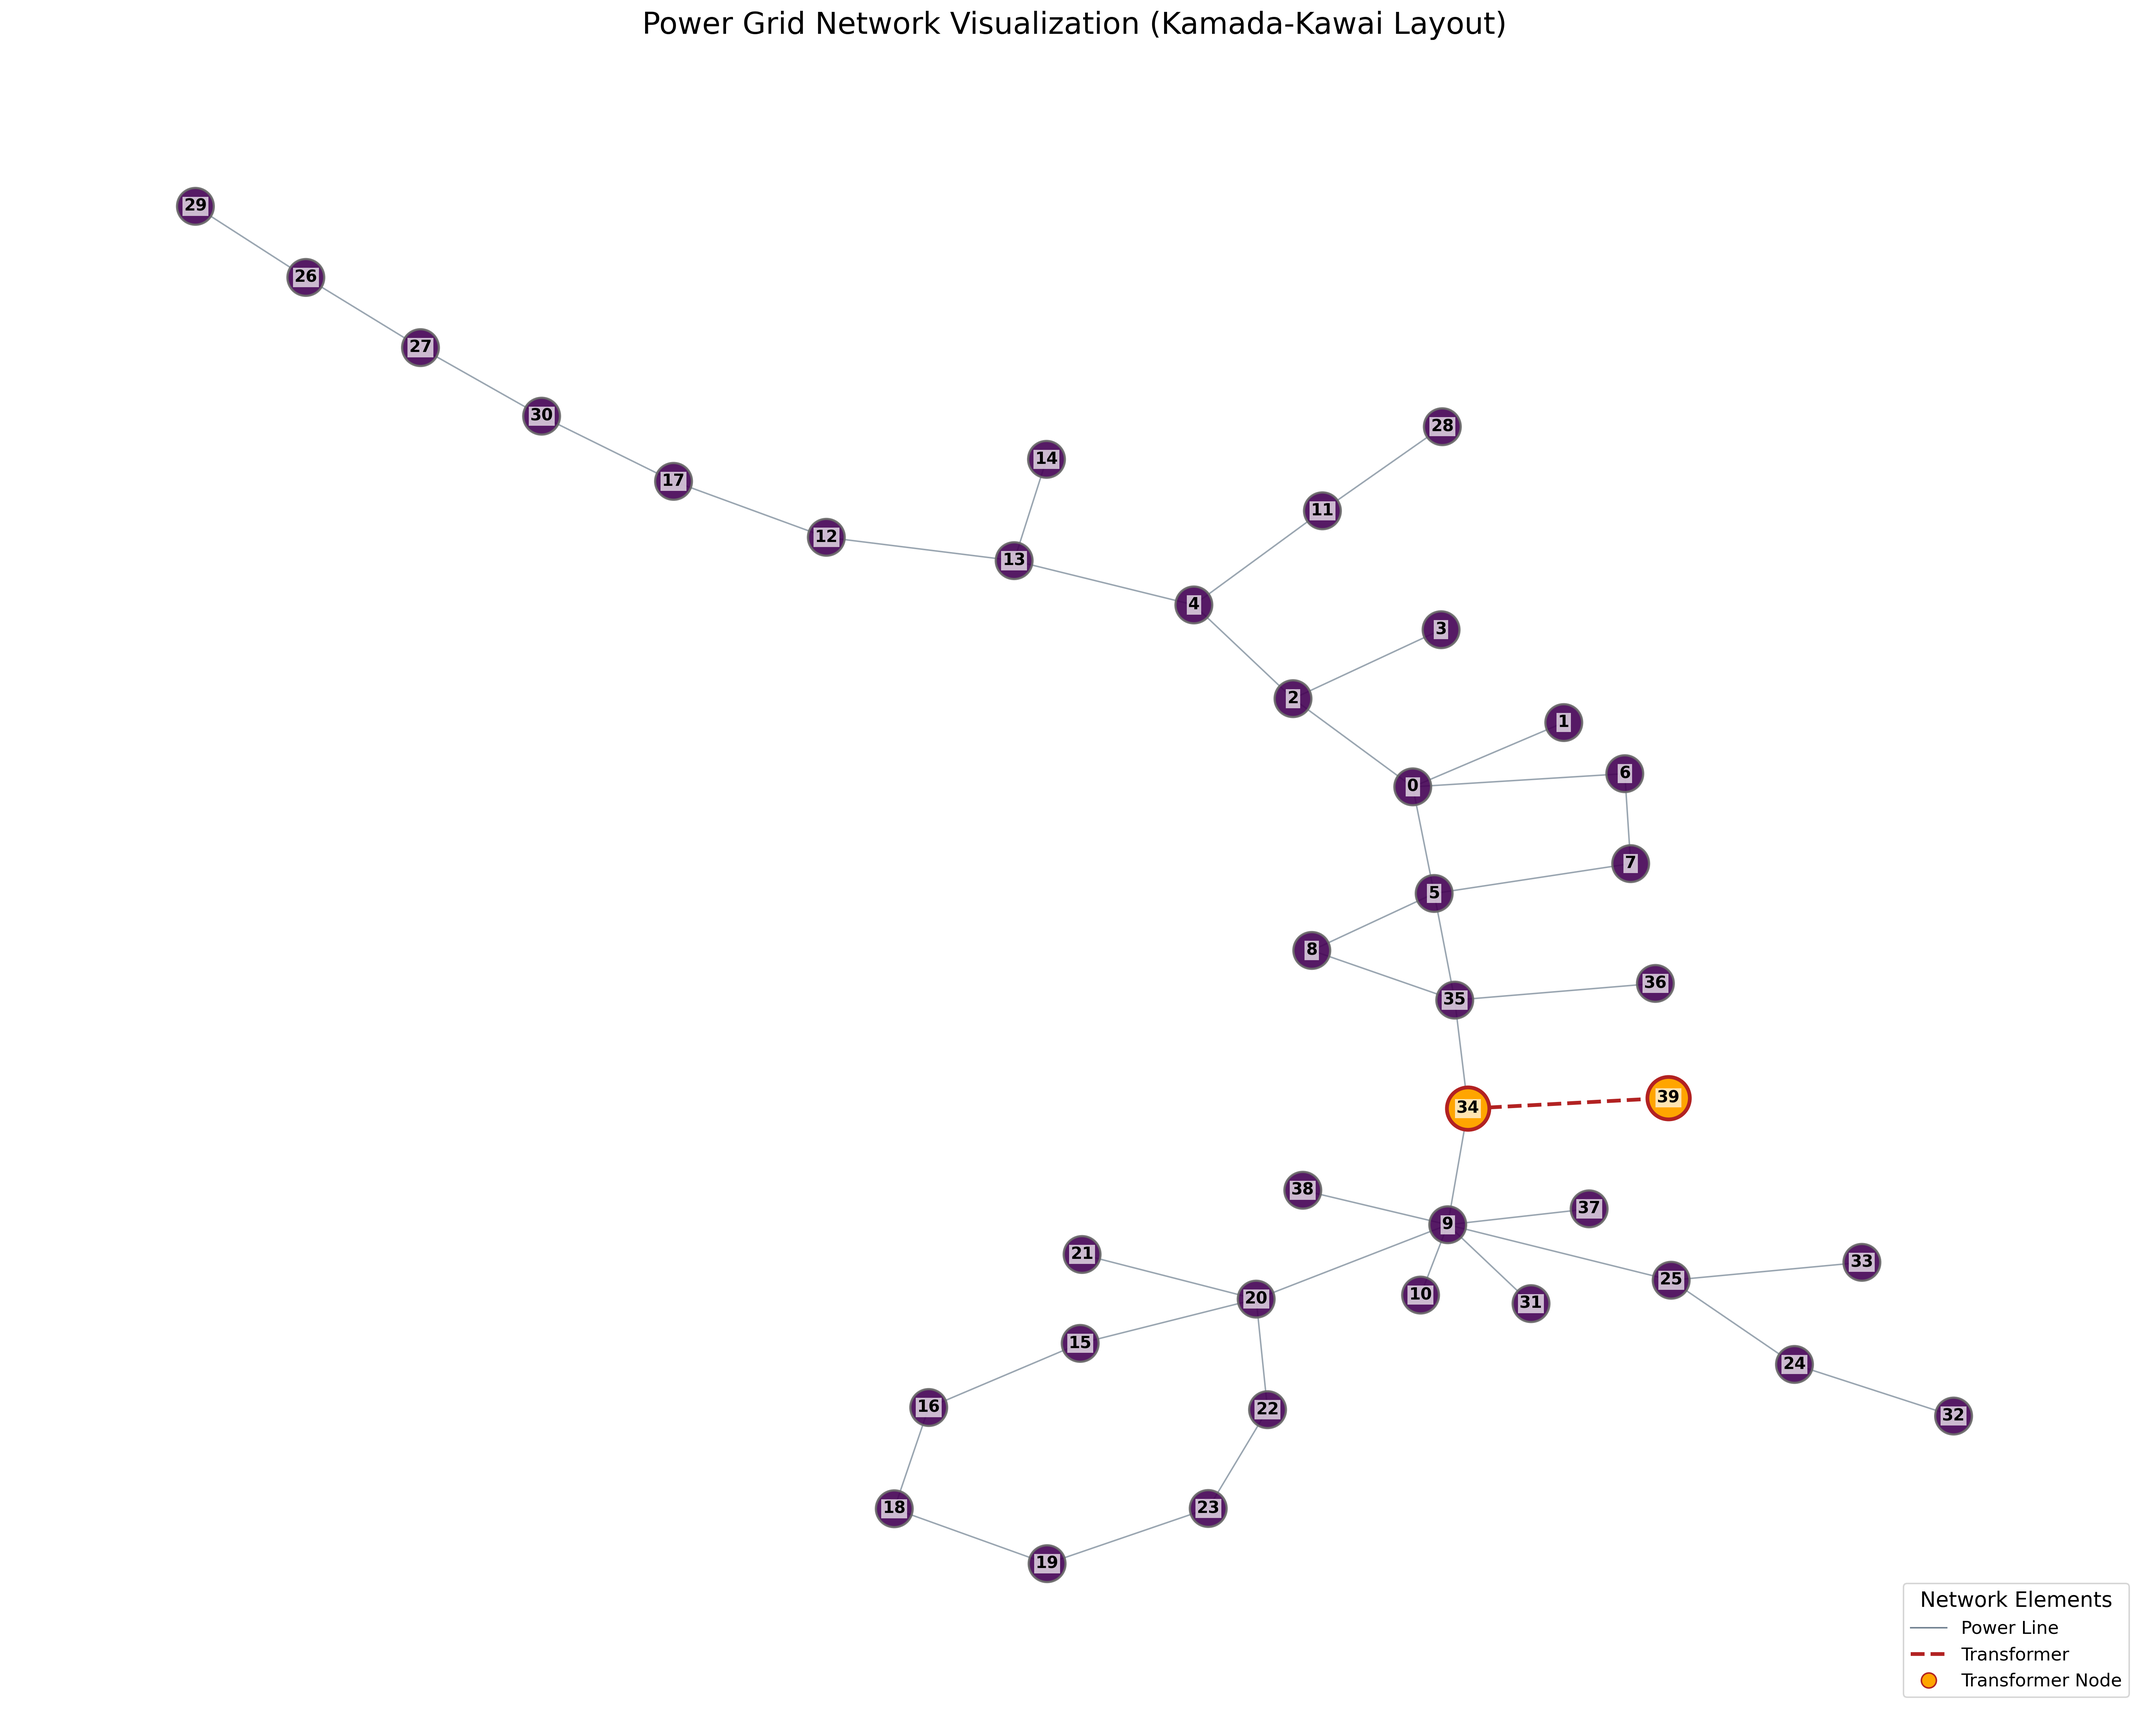
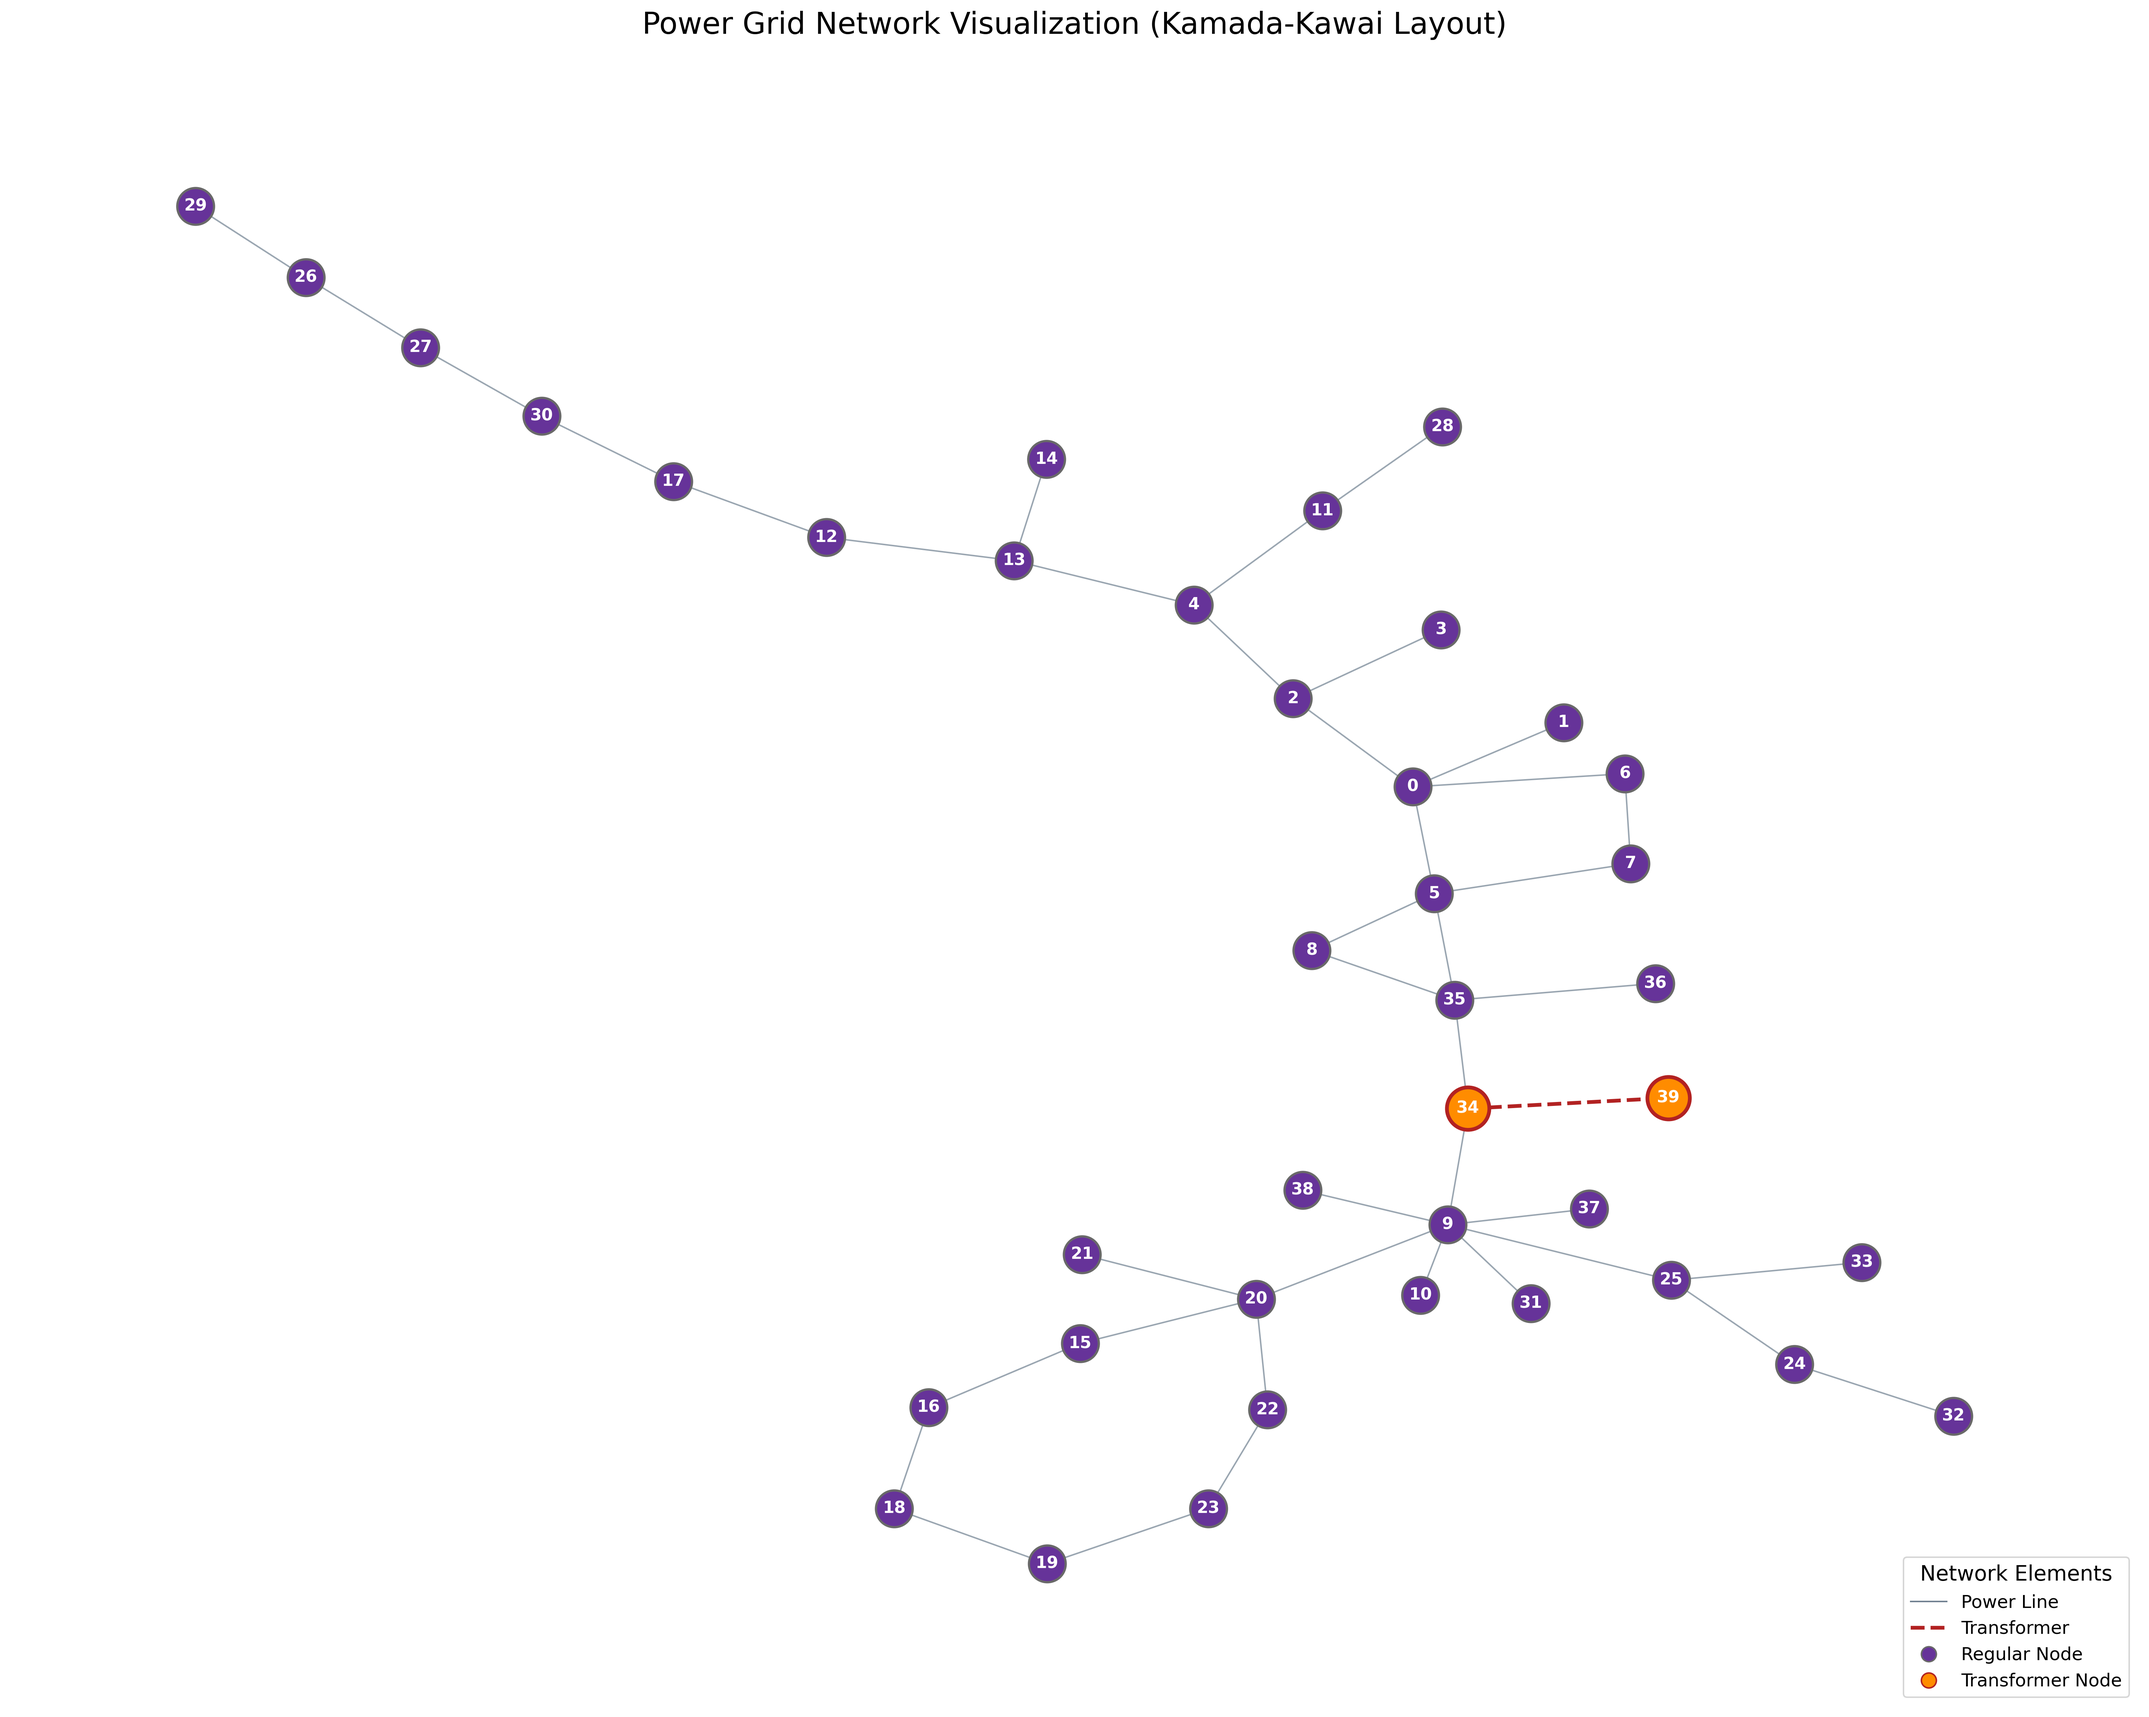
v2

diff --git a/power_grid_viz.py b/power_grid_viz.py
@@ -25,6 +25,13 @@ def visualize_power_grid(json_file_path, layout='spring', output_file=None):
     nodes = data['data']['node']
     lines = data['data']['line']
     transformers = data['data']['transformer']
+    sources = data['data']['source']
+    
+    # Identify the source node
+    source_node_id = None
+    for source in sources:
+        source_node_id = source['node']
+        break  # Just take the first source if there are multiple
     
     # Create a graph
     G = nx.Graph()
@@ -64,29 +71,13 @@ def visualize_power_grid(json_file_path, layout='spring', output_file=None):
     # Set figure size based on the number of nodes
     plt.figure(figsize=(20, 16))
     
-    # Get voltage levels for colormap
-    voltage_levels = np.array([G.nodes[n]['u_rated'] for n in G.nodes()])
-    norm = plt.Normalize(voltage_levels.min(), voltage_levels.max())
-    cmap = cm.viridis
+    # Use consistent colors instead of voltage-based colors
+    regular_node_color = '#663399'  # Consistent purple color for all regular nodes
+    transformer_node_color = '#FF8C00'  # Consistent orange color for transformer nodes
+    source_node_color = '#FF0000'  # Bright red for source node
     
-    # Draw nodes with color based on voltage level - significantly larger
-    node_colors = cmap(norm(voltage_levels))
-    nx.draw_networkx_nodes(G, pos, node_size=600, node_color=node_colors, 
-                           alpha=0.9, edgecolors='dimgray', linewidths=1.5)
-    
-    # Draw node labels (node indices) - increased font size to match larger nodes
-    node_labels = {node: str(node) for node in G.nodes()}
-    nx.draw_networkx_labels(G, pos, labels=node_labels, font_size=11, font_weight='bold', font_color='black', bbox=dict(facecolor='white', edgecolor='none', alpha=0.7, pad=1))
-    
-    # Draw regular edges (lines)
-    line_edges = [(u, v) for u, v, d in G.edges(data=True) if d['type'] == 'line']
-    nx.draw_networkx_edges(G, pos, edgelist=line_edges, edge_color='slategray', 
-                           width=1.0, alpha=0.7)
-    
-    # Draw transformer edges with a different color and style
+    # Identify transformer edges and nodes first
     transformer_edges = [(u, v) for u, v, d in G.edges(data=True) if d['type'] == 'transformer']
-    nx.draw_networkx_edges(G, pos, edgelist=transformer_edges, edge_color='firebrick', 
-                           width=2.5, style='dashed', alpha=1.0)
     
     # Highlight the transformer nodes
     transformer_nodes = set()
@@ -94,17 +85,57 @@ def visualize_power_grid(json_file_path, layout='spring', output_file=None):
         transformer_nodes.add(edge[0])
         transformer_nodes.add(edge[1])
     
+    # Draw nodes with consistent color
+    nx.draw_networkx_nodes(G, pos, node_size=600, node_color=regular_node_color, 
+                           alpha=1.0, edgecolors='dimgray', linewidths=1.5)
+    
+    # Draw node labels with matching background colors
+    node_labels = {node: str(node) for node in G.nodes()}
+    
+    # Create separate label groups for regular, transformer and source nodes
+    regular_nodes = [n for n in G.nodes() if (n not in transformer_nodes and n != source_node_id)]
+    
+    # Draw regular node labels with matching background color
+    nx.draw_networkx_labels(G, pos, labels={n: node_labels[n] for n in regular_nodes}, 
+                          font_size=11, font_weight='bold', font_color='white',
+                          bbox=dict(facecolor=regular_node_color, edgecolor='none', alpha=1.0, pad=1))
+    
+    # Draw transformer node labels with matching background color
+    nx.draw_networkx_labels(G, pos, labels={n: node_labels[n] for n in transformer_nodes if n != source_node_id}, 
+                          font_size=11, font_weight='bold', font_color='white',
+                          bbox=dict(facecolor=transformer_node_color, edgecolor='none', alpha=1.0, pad=1))
+                          
+    # Draw source node label with matching background color and larger font
+    if source_node_id in G.nodes():
+        nx.draw_networkx_labels(G, pos, labels={source_node_id: node_labels[source_node_id]}, 
+                              font_size=14, font_weight='bold', font_color='white',
+                              bbox=dict(facecolor=source_node_color, edgecolor='black', alpha=1.0, pad=2))
+    
+    # Draw regular edges (lines)
+    line_edges = [(u, v) for u, v, d in G.edges(data=True) if d['type'] == 'line']
+    nx.draw_networkx_edges(G, pos, edgelist=line_edges, edge_color='slategray', 
+                           width=1.0, alpha=0.7)
+    
+    # Draw transformer edges with a different color and style
+    nx.draw_networkx_edges(G, pos, edgelist=transformer_edges, edge_color='firebrick', 
+                           width=2.5, style='dashed', alpha=1.0)
+    
+    # Draw transformer nodes with consistent color
     nx.draw_networkx_nodes(G, pos, nodelist=list(transformer_nodes), 
-                           node_size=800, node_color='orange', 
+                           node_size=800, node_color=transformer_node_color, 
                            edgecolors='firebrick', linewidths=2.5)
     
     # Colorbar removed as requested
     
-    # Add legend with more space for node indices to be visible
+    # Add legend with sample nodes matching actual colors
     plt.plot([], [], color='slategray', linewidth=1.0, label='Power Line')
     plt.plot([], [], color='firebrick', linewidth=2.5, linestyle='dashed', label='Transformer')
-    plt.plot([], [], marker='o', markersize=10, markerfacecolor='orange', 
+    plt.plot([], [], marker='o', markersize=10, markerfacecolor=regular_node_color, 
+             markeredgecolor='dimgray', linestyle='', label='Regular Node')
+    plt.plot([], [], marker='o', markersize=10, markerfacecolor=transformer_node_color, 
              markeredgecolor='firebrick', linestyle='', label='Transformer Node')
+    plt.plot([], [], marker='o', markersize=12, markerfacecolor=source_node_color, 
+             markeredgecolor='black', linestyle='', label='Source Node')
     
     legend = plt.legend(title='Network Elements', loc='lower right', fontsize=12)
     plt.setp(legend.get_title(), fontsize=14)
